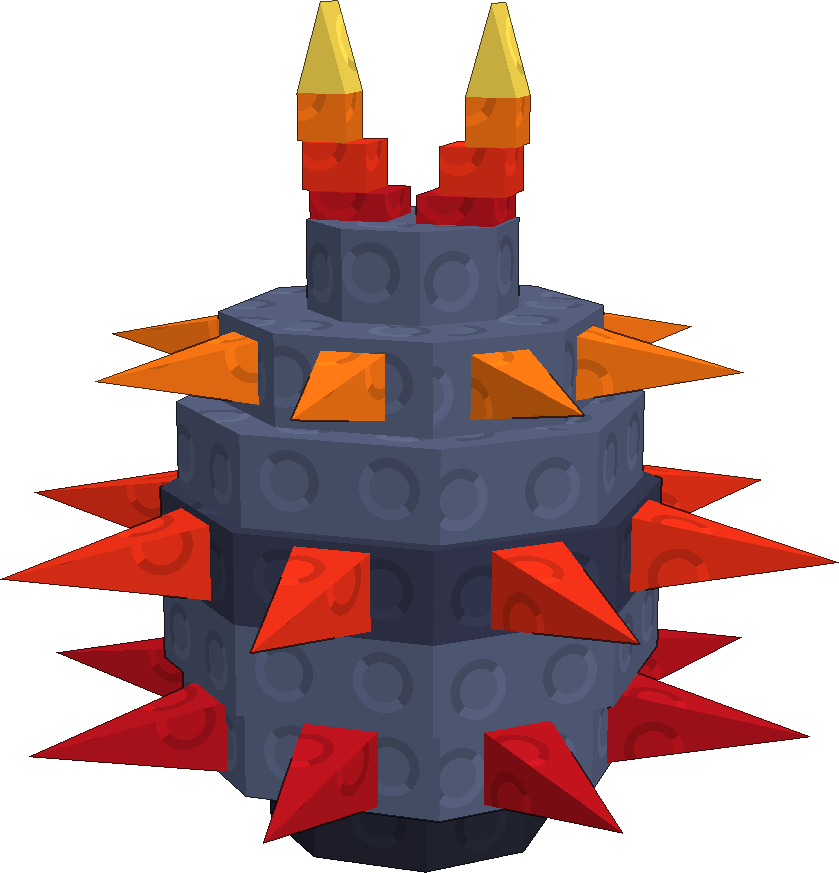
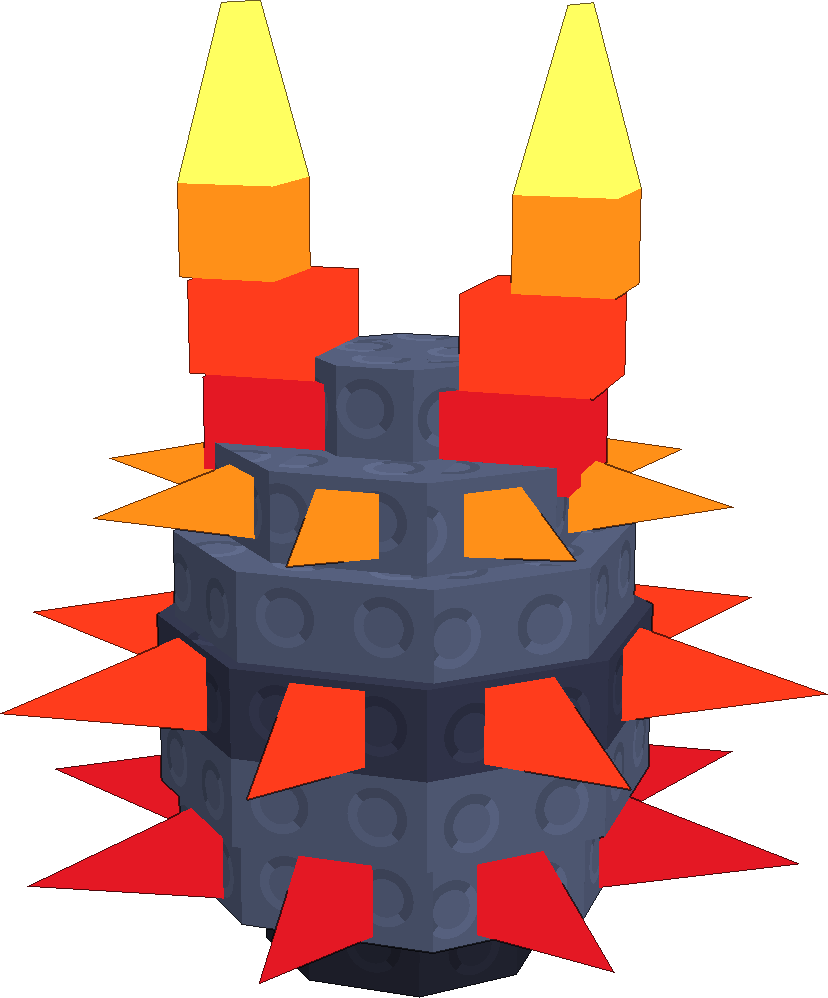
Rock Hog egg: QM's edit (2x horns) in game
Claude-Session: https://claude.ai/code/session_01DtNDqo7ufZKCJaGY7kSuJH

diff --git a/tools/rock_hog_egg.py b/tools/rock_hog_egg.py
@@ -49,7 +49,7 @@ def rock_hog_egg():
     return egg
 
 
-if __name__ == "__main__":
+def generated():
     O.EGGS = [("RockHog", rock_hog_egg)]
     O.main("RockHog", preview="/mnt/project-files/animals/rockhog")
     # the spikes poke out past ocean_eggs' 700 px wide frame: render the UI picture wider
@@ -60,3 +60,29 @@ if __name__ == "__main__":
     im = im.crop(im.getbbox())
     im.save(os.path.join(O.ROOT, "assets", "ui", "RockHogEggRender.png"))
     print("render", im.size)
+
+
+def qm_render():
+    """QM's hand-edited egg (designs/eggs/c_style/RockHogEgg.bbmodel, 2x horns) is the game's
+    now: convert it with `bbmodel_to_luau.py designs/eggs/c_style/RockHogEgg.bbmodel
+    src/shared/Eggs/RockHogEggModel.luau`, then this writes its UI picture (camera raised
+    so the tall horns fit). Run: python3 tools/rock_hog_egg.py qm"""
+    import json
+    import numpy as np
+    from horse_egg_takes import VIEWS
+    from partlib import render
+    from snow_rig import posed
+    m = json.load(open(os.path.join(O.ROOT, "designs", "eggs", "c_style", "RockHogEgg.bbmodel")))
+    ps = posed(m, None, 0)
+    for p in ps:
+        if p.name.startswith("Glow"):
+            p.neon = True
+    v = {k: tuple(np.array(x, float) + [0, 0.6, 0]) for k, x in VIEWS[0].items()}
+    im = render(ps, W=1100, H=1100, fov=28, transparent=True, **v)
+    im = im.crop(im.getbbox())
+    im.save(os.path.join(O.ROOT, "assets", "ui", "RockHogEggRender.png"))
+    print("render", im.size)
+
+
+if __name__ == "__main__":
+    qm_render() if sys.argv[1:2] == ["qm"] else generated()
